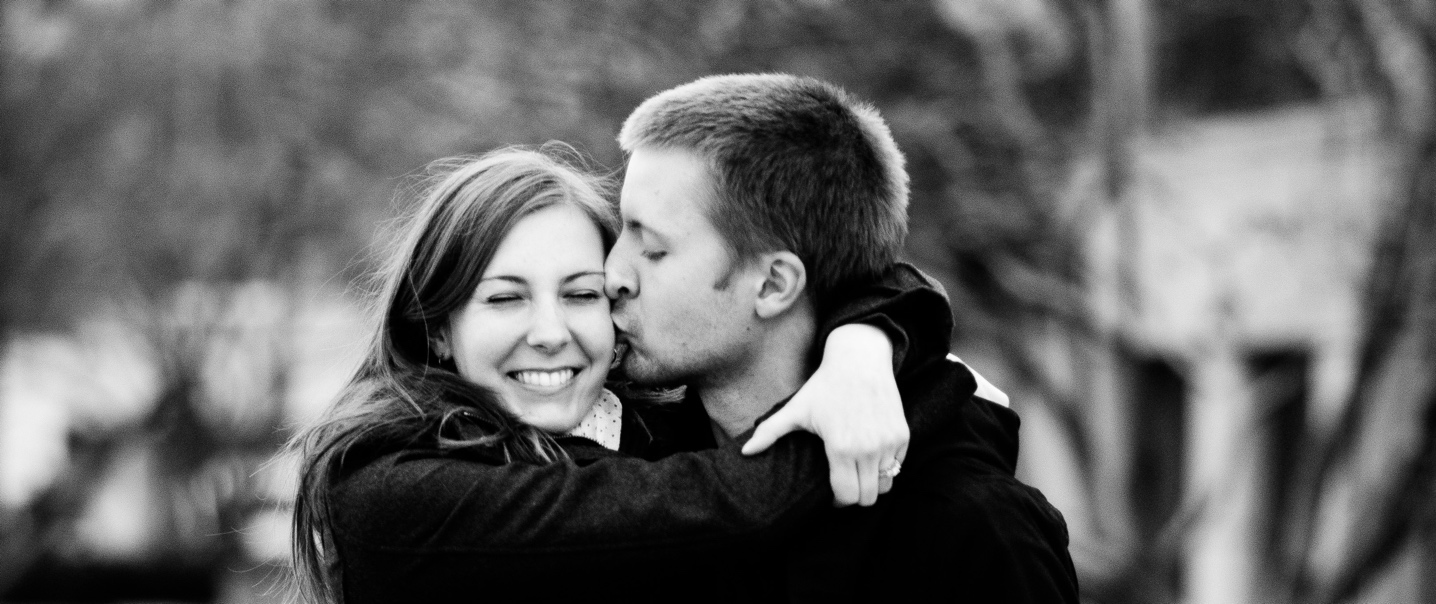
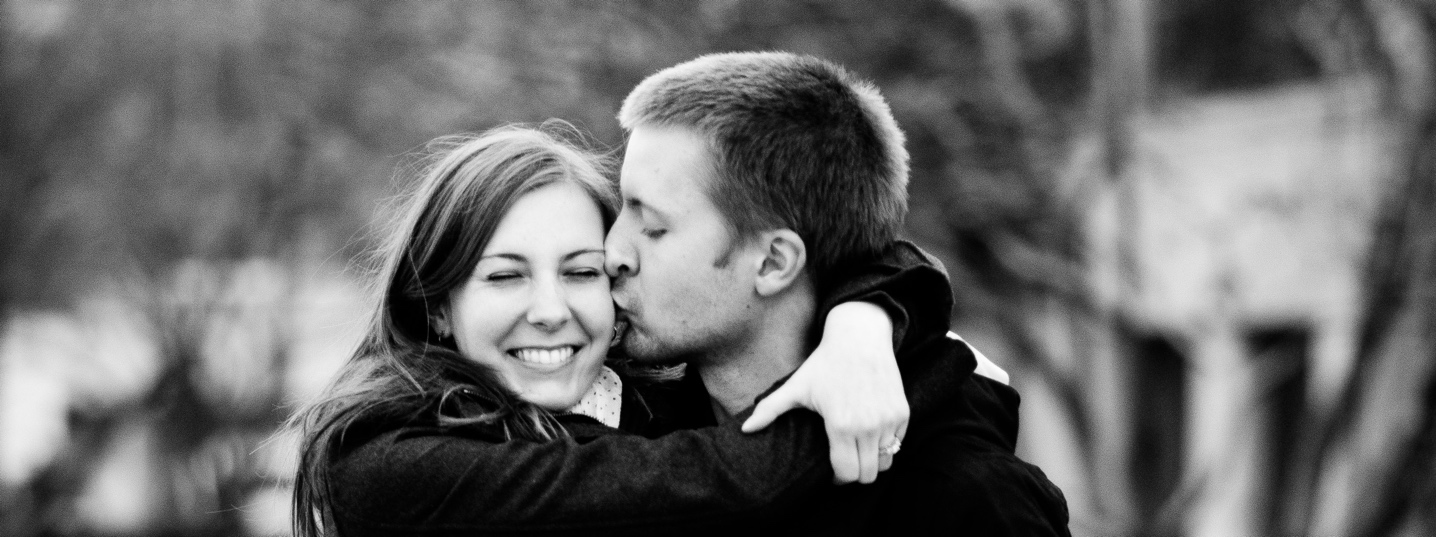
Small styling updates, image tweaks

diff --git a/css/app.css b/css/app.css
@@ -1,36 +1,36 @@
 h1 {
-    font-family: 'Raleway', sans-serif;
+    font-family: 'Lato', sans-serif;
     color: #000;
     opacity: 0.9;
+    font-size: 48px;
 }
 
 h2 {
-    font-family: 'Alice', sans-serif;
-    font-size: 32px;
+    font-family: 'Merriweather', sans-serif;
+    font-size: 24px;
     margin-bottom: 0;
 }
 
 h3 {
-    font-family: 'Alice', sans-serif;
-    font-size: 25px;
+    font-family: 'Lato', sans-serif;
+    font-size: 21px;
 
 }
 
 h4 {
-    font-family: 'Alice', sans-serif;
-    font-size: 20px;
+    font-family: 'Merriweather', sans-serif;
+    font-size: 18px;
 }
 
 p {
-    font-family: 'Lato', sans-serif;
-    margin-bottom: 15px;
-    font-size: 16px;
+    font-family: 'Merriweather', sans-serif;
+    margin-bottom: 14px;
+    font-size: 14px;
     opacity: 0.8;
 }
 
 hr {
-    margin-top: 30px;
-    margin-bottom: 30px;
+    margin: 50px 0;
 }
 
 .page-wrapper {
@@ -39,13 +39,13 @@ hr {
 }
 
 .header {
-    padding-top: 52px;
-    padding-bottom: 25px;
+    padding-top: 35px;
+    padding-bottom: 30px;
 }
 
 .menu {
     display: inline-block;
-    padding: 0 15px;
+    padding: 0 5px;
     position: relative;
 }
 
@@ -68,7 +68,7 @@ hr {
 
 
 .page-heading {
-    margin-bottom: 30px;
+    margin-bottom: 42px;
 }
 
 .footer p {
@@ -78,6 +78,30 @@ hr {
 .hero {
     /*background-image: url(../img/hero1.jpg);*/
     margin-top: 0px;
-    margin-bottom: 30px;
-    height: 525px;
+    margin-bottom: 0px;
+    height: 485px;
+}
+
+button.primary {
+    background-color: #9FAFBD;
+    padding: 15px 40px;
+    margin: 15px 0px 0px 0px;
+    color: #fff;
+}
+
+.footer {
+    margin: 50px 0px 20px 0px;
+
+}
+
+p.footer {
+    font-size: 10px;
+}
+
+.content-block :last-child {
+    margin-bottom: 0px;
+}
+
+.logo {
+    max-height:42px;
 }

diff --git a/index.html b/index.html
@@ -6,7 +6,7 @@
     <title>Kenton & Maddie</title>
     <link rel="stylesheet" href="css/foundation.min.css">
     <link rel="stylesheet" href="css/app.css">
-    <link href='https://fonts.googleapis.com/css?family=Volkorn|Unica One|Lato' rel='stylesheet' type='text/css'>
+    <link href='https://fonts.googleapis.com/css?family=Merriweather|Lato' rel='stylesheet' type='text/css'>
 </head>
 <body>
 <div class="hero" data-interchange="[img/small.jpg, small], [img/medium.jpg, medium], [img/large.jpg, large]">
@@ -16,7 +16,7 @@
     <span data-responsive-toggle="responsive-menu" data-hide-for="medium">
         <button class="menu-icon dark" type="button" data-toggle></button>
     </span>
-            <img src="img/weddinglogo.png">
+            <img class="logo" src="img/weddinglogo.png">
         </div>
         <div id="responsive-menu">
 
@@ -95,7 +95,7 @@
             </iframe>
         </div>
         <div class="medium-6 columns">
-            <div class="reception">
+            <div class="content-block">
                 <h3>Reception</h3>
                 <p>Hot Water/Wherehouse
                     <br>818 S Water St.
@@ -137,10 +137,10 @@
     <div class="row column text-center">
         <h3>Did you get an invitation in the mail?</h3>
         <h4>Let us know if you can make it.</h4>
-        <button>RSVP</button>
+        <button class="primary">RSVP</button>
     </div>
-    <div class="footer row column text-center">
-        <p>Created by Maddie Huebner</p>
+    <div class="row column text-center">
+        <p class="footer">Madison Huebner 2016</p>
     </div>
 </div>
 </div>
